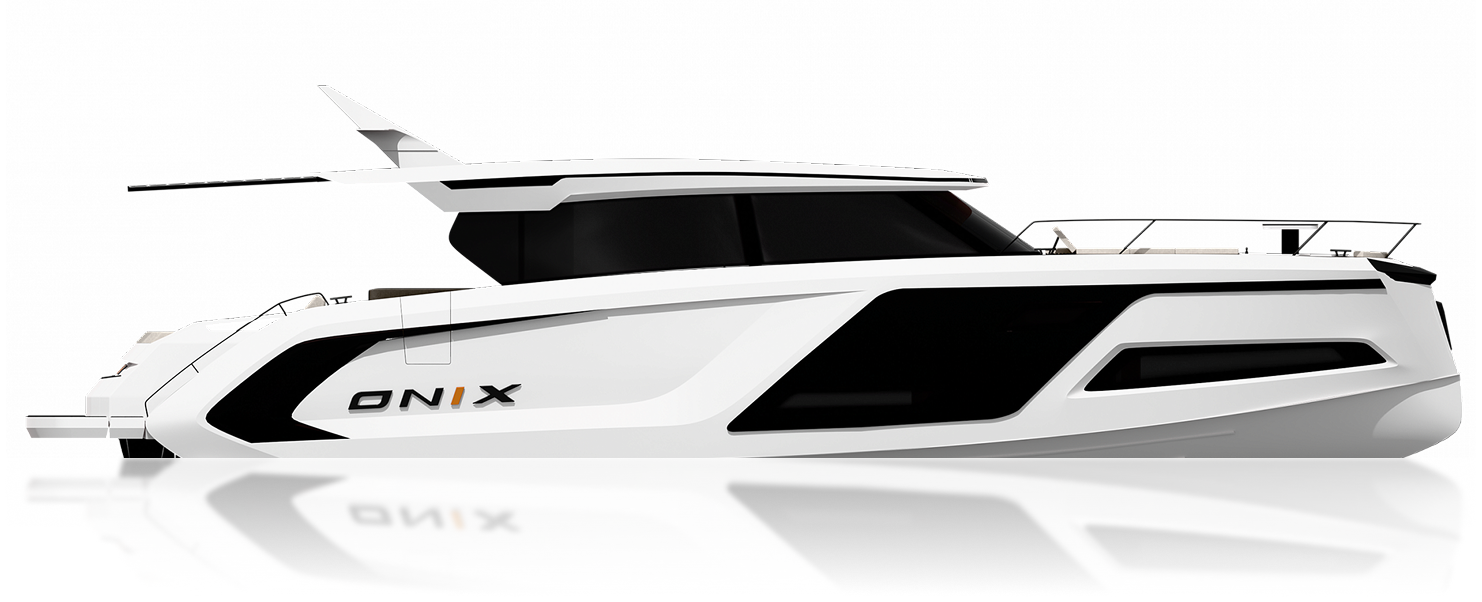
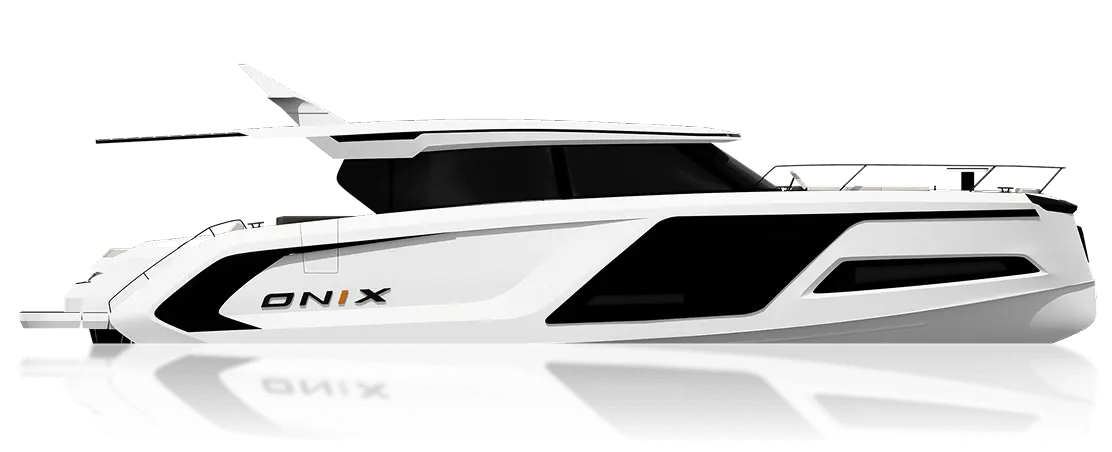
адаптация модалка

diff --git a/css/media.css b/css/media.css
@@ -1,10 +1,33 @@
 /* Адаптивные стили (подключается после style.css / model.css) */
+@media (min-width: 1920px) {
+    .modal-window-description-container {
+        flex: 0 0 40%;
+    }
+    .modal-media-wrap {
+        flex: 0 0 60%;
+    }
+    
+}
 @media (max-width: 1439px) {
     .boat-info-desc-text-text {
         font-size: 0.875rem;
     }
+
+    section.welcome,
+    section.description,
+    section.boat-information,
+    .mosaic-cell-content__inner,
+    section.cards-section,
+    .form-container,
+    footer {
+        padding: 80px 40px !important;
+    }
+    .modal-menu-group {
+        padding: 40px;
+    }
+
 }
-@media (max-width: 1280px) {
+@media (max-width: 1279px) {
     .header-container {
         padding-left: 20px;
         padding-right: 20px;
@@ -44,17 +67,8 @@
         gap: 20px;
     }
 
-    .footer {
-        padding: 56px 20px 48px;
-        gap: 28px;
-    }
-
     .model-specs__grid {
         grid-template-columns: repeat(2, minmax(0, 1fr));
-    }
-
-    .model-overview {
-        padding: 56px 28px 64px;
     }
 
     .model-overview__inner {
@@ -63,6 +77,12 @@
 
     .model-gallery__grid {
         grid-template-columns: 1fr;
+    }
+    .modal-media-wrap {
+        display: none;
+    }
+    .modal-window-description-container {
+        flex: 0 0 100%;
     }
 }
 
@@ -74,6 +94,10 @@
     .boat-model-btn.active {
         font-size: 1.875rem;
     }
+    .boat-information-card-group {
+        width: 640px;
+        width: clamp(640px, calc(491.449px + 14.493vw), 700px);
+    }
 }
 
 @media (max-width: 1024px) {
@@ -84,18 +108,21 @@
         width: 120px;
         width: clamp(120px, calc(29.529px + 11.765vw), 150px);
     }
-    .modal-media-wrap {
-        display: none;
-    }
     .modal-window-description {
         width: 100%;
     }
     .modal-window-choose-boat {
         padding: 8px 28px 8px 10px;
     }
+    .modal-window-description-text {
+        max-width: unset;
+    }
+    .modal-window-description-container {
+        padding: 0 0 0 28px;
+    }
+   
 
     .welcome {
-        padding: 72px 20px;
         height: 100vh;
         height: 100svh;
     }
@@ -143,7 +170,8 @@
         width: 100%;
         max-width: unset;
     }
-    .cards-section-header {
+    .cards-section-header,
+    .cards-news-title  {
         font-size: 1.25rem;
         font-size: clamp(1.125rem, 0.9303rem + 0.8902vw, 1.5rem);
     }
@@ -156,7 +184,6 @@
     }
 
     .description {
-        padding: 72px 20px;
         gap: 20px;
     }
 
@@ -348,10 +375,6 @@
         gap: 10px;
     }
 
-    .header-container.padding {
-        padding: 10px 12px;
-    }
-
     .header-logo {
         width: 100px;
         width: clamp(90px, calc(65.581px + 6.977vw), 120px);
@@ -403,6 +426,9 @@
         width: auto;
         font-size: 1rem;
     }
+    .feedback-video-container {
+        display: none;
+    }
 
     /********* boats-promo section ********/
     .boat-information-card-group {
@@ -424,6 +450,9 @@
     }
     .vertical-line-modal {
         display: none;
+    }
+    .modal-menu-group {
+        justify-content: center;
     }
     
     /*************** footer ***************/

diff --git a/css/style.css b/css/style.css
@@ -142,11 +142,14 @@ a {
     justify-content: space-between;
     flex-direction: column;
     width: 100%;
+    /* height: 100vh;
+    height: 100svh; */
 }
 
 .modal-window-choose-boat-container {
     display: flex;
     flex-direction: column;
+    overflow: scroll-y;
 }
 
 .modal-window-choose-boat-text {
@@ -160,7 +163,7 @@ a {
     background: transparent;
     text-align: left;
     cursor: pointer;
-    padding: 8px 10px;
+    padding: 8px 32px 8px 10px;
     border-radius: 6px;
     width: 100%;
     display: flex;
@@ -212,13 +215,11 @@ a {
     width: 100%;
 }
 
-.modal-main-img {
-    max-width: 540px;
-}
-
 .modal-window-description {
     display: flex;
     align-items: flex-start;
+    justify-content: space-between;
+    width: 100%;
 }
 
 .modal-window-description-container {
@@ -227,6 +228,7 @@ a {
     gap: 2rem;
     align-items: flex-start;
     padding: 0 2.125rem 0 3.125rem;
+    flex: 0 0 50%;
 }
 
 .modal-window-description-title {
@@ -245,7 +247,6 @@ a {
 }
 
 .modal-window-description-text {
-    max-width: 370px;
     font-weight: 400;
     font-size: 0.875rem;
     line-height: 135%;
@@ -306,7 +307,7 @@ a {
 .modal-menu-group {
     display: flex;
     justify-content: space-between;
-    padding: 4.188rem 2.938rem 4.313rem 2.625rem;
+    padding: 4.188rem 2.938rem 12% 2.625rem;
 }
 
 .header-modal {
@@ -318,22 +319,20 @@ a {
 
 .modal-media-wrap {
     position: relative;
-    width: 540px;
     /* как у основной картинки */
-    flex-shrink: 0;
+    flex: 0 0 50%;
+    max-width: 1000px;
 }
 
 .modal-main-img {
     width: 100%;
-    max-width: 540px;
-    display: block;
 }
 
 .modal-boat-overlay {
     position: absolute;
-    right: 0;
-    bottom: -168px;
-    width: 760px;
+    right: -6%;
+    bottom: -36%;
+    width: 140%;
     max-width: none;
     pointer-events: none;
     opacity: 0;
@@ -573,7 +572,7 @@ a {
     justify-content: space-between;
     align-items: stretch;
     background-color: #fff;
-    padding: 7.5rem 1.25rem 7.5rem 2.5rem;
+    padding: 7.5rem 2.5rem;
     gap: 1.5rem;
 }
 

diff --git a/js/script.js b/js/script.js
@@ -241,7 +241,7 @@ const boatData = {
     cabin: {
         watermark: "850",
         description: "Комфортная каютная лодка для семейных путешествий и продолжительных маршрутов",
-        image: "./images/850_side.webp",
+        image: "./images/850_cabin_side.webp",
         imageAlt: "ONIX 850 Cabin",
         length: "8,5",
         capacity: "8",
@@ -252,7 +252,7 @@ const boatData = {
         description: "Открытый, стильный катер для истинных ценителей скорости и ощущений на воде. Его цель — максимум внимания и драйва.",
         image: "./images/850_day_cruiser_side.webp",
         imageAlt: "ONIX 850 Day Cruiser",
-        length: "8,43",
+        length: "8,5",
         capacity: "2",
         speed: "95"
     },
@@ -261,7 +261,7 @@ const boatData = {
         description: "Представляем абсолютно новый флагман ONIX 12X — воплощение передовых технологий, элегантного дизайна и непревзойдённого комфорта.",
         image: "./images/12x_side.webp",
         imageAlt: "ONIX 12X",
-        length: "11,9",
+        length: "12",
         capacity: "12",
         speed: "120"
     }

diff --git a/index.html b/index.html
@@ -200,7 +200,7 @@
             <div class="boat-info-img-container">
                 <div class="boat-image-stage">
                     <p class="boat-info-watermark" id="boatWatermark">850</p>
-                    <img class="img-boat-info is-current" id="boatImageCurrent" src="./images/850_side.webp"
+                    <img class="img-boat-info is-current" id="boatImageCurrent" src="./images/850_cabin_side.webp"
                         alt="ONIX 850 Cabin">
                 </div>
 
